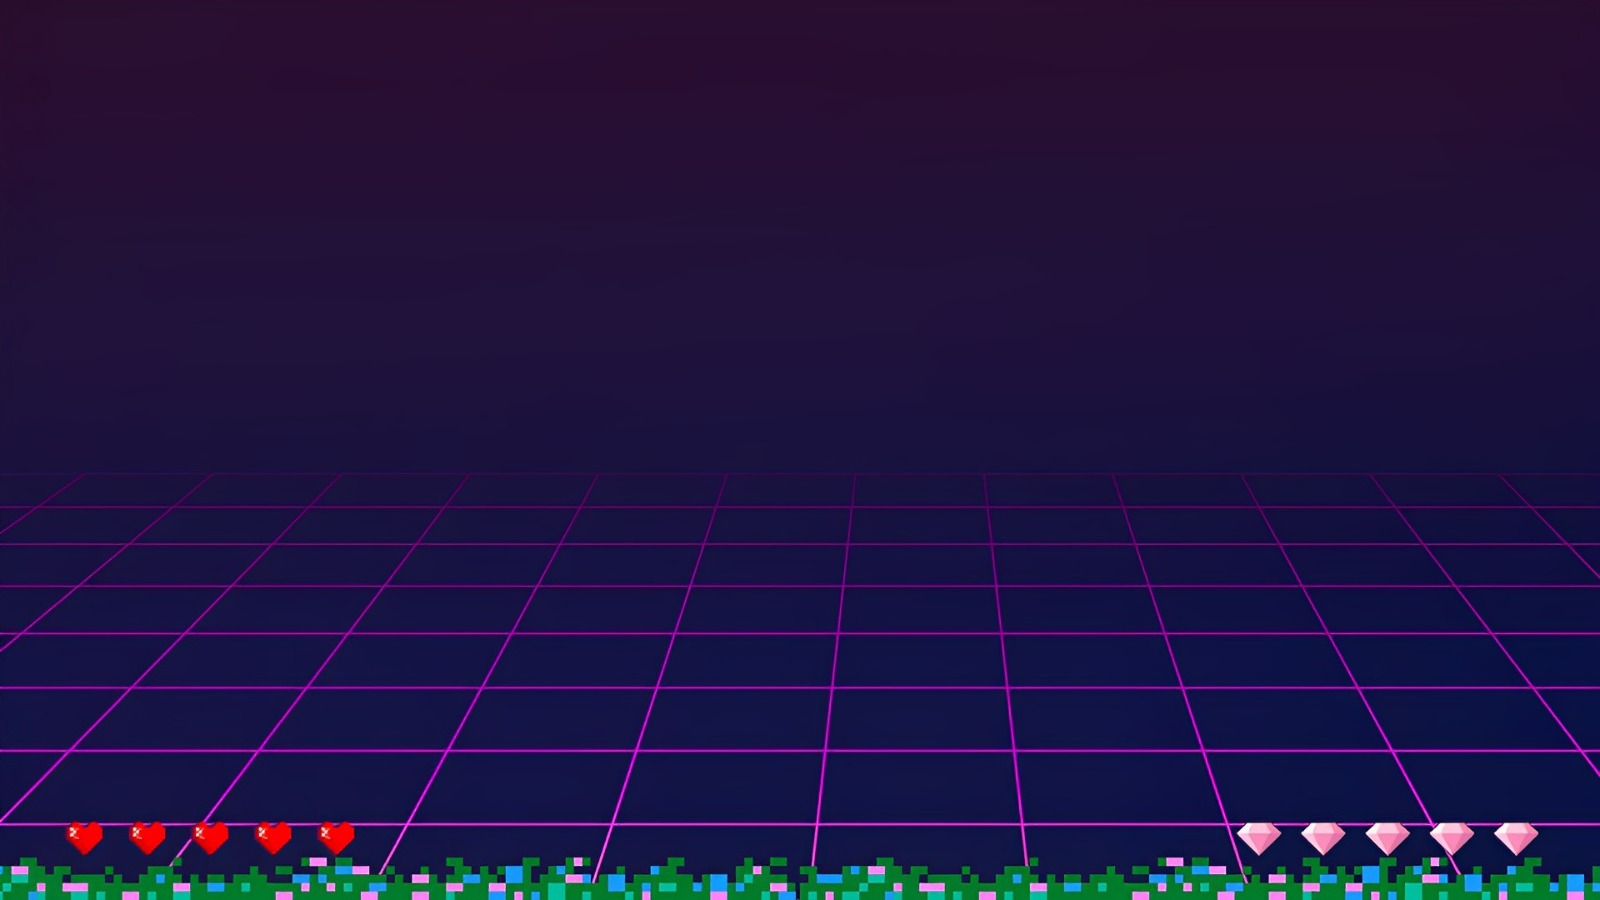
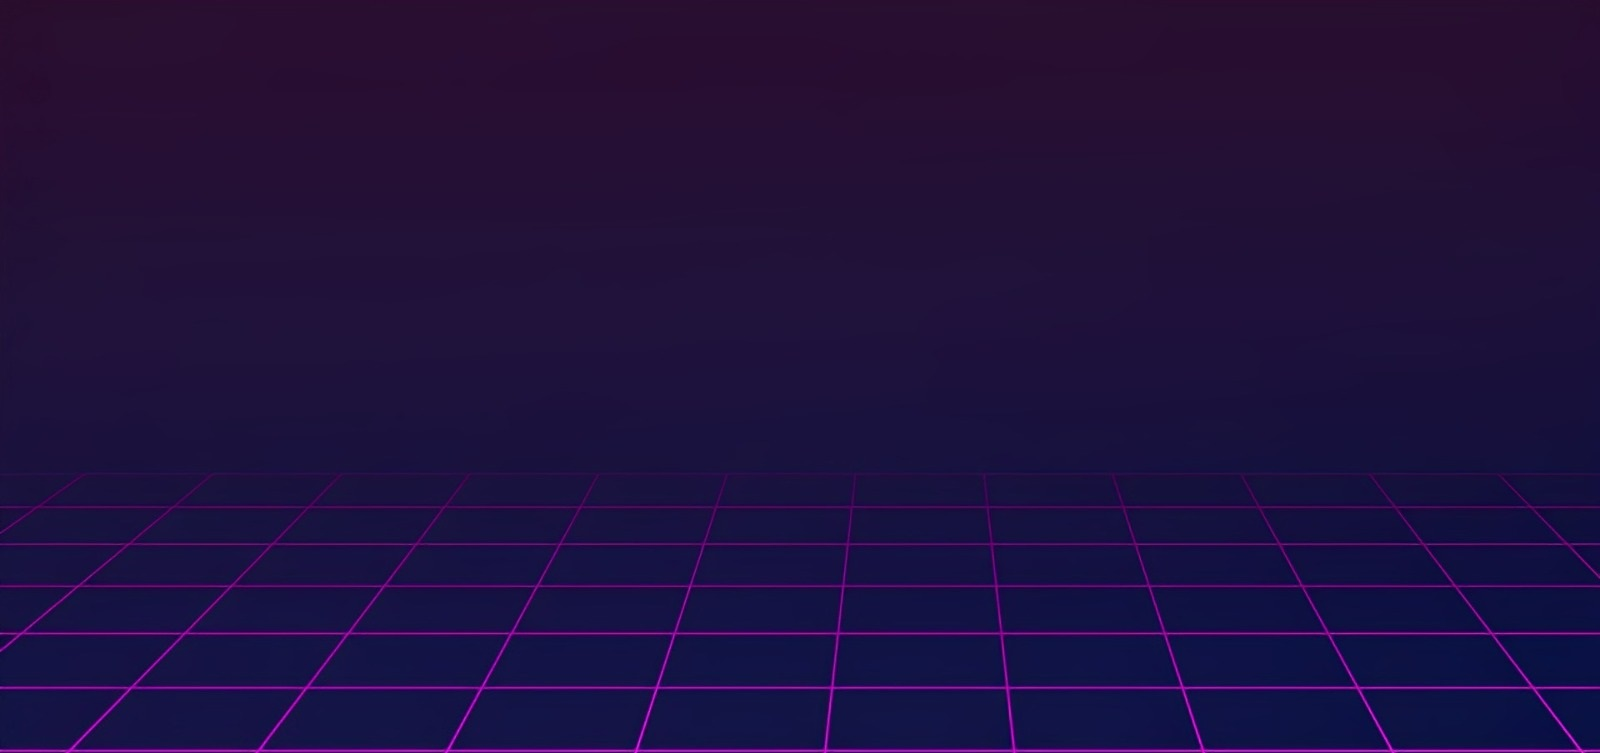
Atualizações no site - novo design

diff --git a/index.html b/index.html
@@ -14,25 +14,60 @@
 <div> <h1 class="titulo"> Codeasy</h1></div>
 <div> <h2 class="subtitulo"> Code classes </h2></div>
 </header>
-
+<main>
+    <div class="div-prin">
+        
+        <div class="div-1">
+            <div>
+                <h2 class="code"> Let's code!</h2>
+                <p> Se o seu filho gasta muito tempo em frente ao computador ou video-game, aproveite este interesse e assine nosso curso de programaçâo e desenvolva as habilidades nessa área!
+                construtivo e atraente.</p>
+            </div>
+        </div>
+        <div class="div-2">
+            <img src="./images/img2.jpg" alt="" class="img-1">
+        </div>
+        
+    </div>
+    <div class="div-prin">
+        <div class="div-2">
+            <img src="./images/img1.png" alt="">
+        </div>
+        <div class="div-1">
+            <div>
+                <h2> O que vai aprender?</h2>
+                <p>
+                    Você aprenderá de forma simples como programar,
+                    desenvolvendo habilidades de lógica de programaçâo com muita criatividade,
+                     Durante o curso o aluno fará alguns desafios para lhe ajudar a exercitar seus conhecimentos, incentivando a desenvolver seus próprios projetos.
+                </p>
+            </div>
+            </div>
+    </div>
+</main>
+<!-- 
 <div class="info">
    
-    <div class="info1">
-        <h2> Let's code ! </h2>
+
     
-        <p> Se o seu filho gasta muito tempo em frente ao computador ou video-game, aproveite este interesse e assine nosso curso de programaçâo e desenvolva as habilidades nessa área!
-            <!-- construtivo e atraente. 
+
+    <div class="info1">
+
+        <div> <h2 class="code"> Let's code!</h2></div>
+        <div> <p> Se o seu filho gasta muito tempo em frente ao computador ou video-game, aproveite este interesse e assine nosso curso de programaçâo e desenvolva as habilidades nessa área!
+             construtivo e atraente. 
             Com as aulas da codeasy seu filho terá a oportunidade de descobrir todo um ramo de possibilidades profissionais e academicas para atuar na vida adulta.
-            Este curso pode também ser usado por alunos como ferramenta de apoio nas disciplinas escolares.* --></p>
+            Este curso pode também ser usado por alunos como ferramenta de apoio nas disciplinas escolares.*</p>
+        </div>
         
         </div>
     
         <div class="info1">
-            <h2> O que vai aprender ?</h2>
+            <h2> O que vai aprender?</h2>
         
             <p> Você aprenderá de forma simples como programar, 
                 desenvolvendo habilidades de lógica de programaçâo com muita criatividade,
-                <!-- Durante o curso o aluno fará alguns desafios para lhe ajudar a exercitar seus conhecimentos,  -->incentivando a desenvolver seus próprios projetos.</p>
+                 Durante o curso o aluno fará alguns desafios para lhe ajudar a exercitar seus conhecimentos, incentivando a desenvolver seus próprios projetos.</p>
             
             </div>
     
@@ -56,7 +91,7 @@
 
 </div>
 
-<div class="botao" ><a href="./form.html"><button class="inscrever">Inscreva-se</button></a>  </div>
+<div class="botao" ><a href="./form.html"><button class="inscrever">Inscreva-se</button></a>  </div> -->
 
 
 <footer>

diff --git a/style.css b/style.css
@@ -25,7 +25,7 @@ header h2{
 
 h3{ font-family:"karmatic"; color: white;}
 
-body{ background-image: url(./images/background.jpeg);
+body{ background-color: black;
     background-repeat: no-repeat;
     background-size: cover;
     color: white;
@@ -56,7 +56,7 @@ body{ background-image: url(./images/background.jpeg);
 }
 .info1{  
     width:440px;
-    text-align: center;
+    text-align: justify;
 }
 
 .divL{
@@ -88,6 +88,7 @@ flex-wrap: wrap;
 }
 .inscrever:hover {
     background-color: orange;
+    cursor: pointer;
 }
 .inscrever:active{
     background-color: #bd7b00;
@@ -116,6 +117,33 @@ form {
 
     a{ text-decoration: none; color: inherit;}
 
+    footer { height: 40px;}
   
-
-
+.div-prin {
+    width: 100%;
+    display: flex;
+    margin-top:80px;
+    justify-content: center;
+    column-gap: 50px;
+    
+}
+.div-1 {
+    width: 60%;
+    display: flex;
+    justify-content: center;
+    align-items: center;
+}
+.div-prin img{
+    width: 400px;
+    height: 400px;
+}
+.div-prin h2{
+    font-size: 6vh;
+    font-family: "Karmatic";
+    margin-bottom: 30px;
+}
+.div-prin p {
+    font-family:"caviar"; 
+    color: white;
+    font-size: 3vh;
+}
